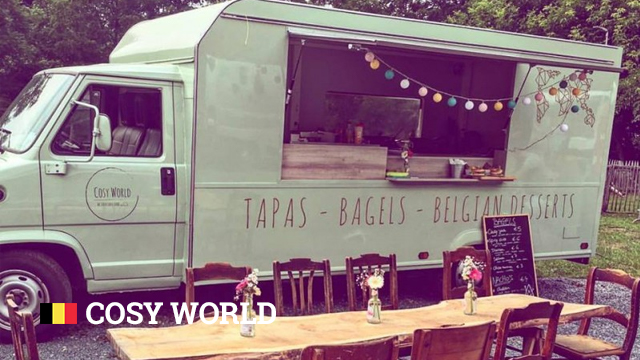
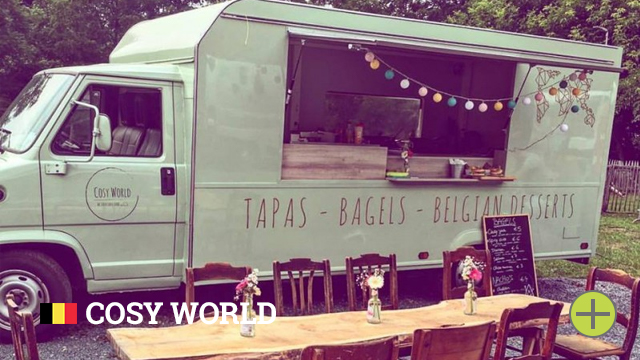
update

Changed region(s): [[0.875, 0.7944, 0.9688, 0.9472]]

diff --git a/pages/css/pages.css b/pages/css/pages.css
@@ -16,14 +16,17 @@ h1{
     color: white;
     padding: 10px 20px 15px 20px;
     text-decoration: underline;
+    text-align: center;
 }
 h2{
     background-color: #484848;
     color: white;
     padding: 5px 10px 5px 10px;
+    text-align: center;
 }
 .info{
     padding-left: 40px;
+
 }
 .infodt{
     font-weight: bold;
@@ -53,26 +56,164 @@ img {
     background-color: rgb(219, 139, 139);
     line-height: 24px;
 }
-.styleguide{
-    background-color: #EFEAEA;
+.styleguide-logo{
+    padding: 0px 40px 0px 40px;
 }
-.styleguide-body{
-
+.grootlogo{
+    width: 400px;
+    height: auto;
+    align-content: flex-start;
+}
+.kleinlogo{
+    width: 400px;
+    height: auto;  
+}
+.styleguidelogo{
     text-align: center;
+    align-content: center;
+}
+.styleguide-functies{
+    background-color: rgb(109, 105, 105);
+    color: white;
+    margin: 0px -50px 0px -50px;
+    padding: 20px 0px 20px 0px;
+    text-align: center;
+    align-content: center;
 }
 .DS1{
-    width: 500px;
-    height: auto;
-    padding-bottom: 20px;
-}
-
-.DS2{
     width: 469px;
     height: 264px;
     border: 3px solid #707070;
 }
-.DS2:hover {
+.DS1:hover {
     transform: scale(1.1, 1.1); 
     opacity: 1;
 }
-/* Voeg jouw css hieraan toe */
+.styleguide-icons{
+    margin: 0px -50px 0px -50px;
+    padding: 20px 0px 20px 0px;
+    text-align: center;
+    align-content: center;
+}
+.DS2{
+    width: auto;
+    height: 50px;
+}
+.DS3{
+    width: auto;
+    height: 50px;
+}
+.DS4{
+    width: auto;
+    height: 50px;
+}
+.DS5{
+    width: auto;
+    height: 50px;
+}
+.DS6{
+    width: auto;
+    height: 50px;
+}
+.orange-rectangle1{
+    display: table;
+    width: 250px;
+    height: auto;
+    padding-top: 5px;
+    padding-bottom: 5px;
+    background-color: #DCAA65; 
+    margin: 20px auto 0px auto;
+    border: 1px solid #707070;
+    border-radius: 20px;
+}
+.orange-rectangle1 span{
+    font-family: "Roboto Slab";
+    font-size: 35;
+    font-weight: bold;
+    color: white;
+}
+.orange-rectangle2{
+    display: table;
+    width: 250px;
+    height: auto;
+    padding-top: 5px;
+    padding-bottom: 5px;
+    background-color: #DCAA65; 
+    margin: 20px auto 0px auto;
+    border: 1px solid #707070;
+    border-radius: 20px;
+}
+.orange-rectangle2 span{
+    font-family: "Roboto Slab";
+    font-size: 35;
+    font-weight: bold;
+    color: white;
+}
+.orange-rectangle3{
+    display: table;
+    width: 30px;
+    height: 28px;
+    background-color: #DCAA65; 
+    margin: 20px auto 0px auto;
+    border: 1px solid #707070;
+    border-radius: 50%;
+}
+.orange-rectangle3 span{
+    font-family: "Roboto Slab";
+    font-size: 35px;
+    font-weight: bold;
+    color: white;
+}
+.styleguide-fonts{
+    text-align: center;
+    align-content: center;
+    padding: 20px 40px 20px 40px;
+    background-color: rgb(109, 105, 105);
+    color: white;
+    margin: 0px -50px 0px -50px;
+}
+.styleguide-fonts2{
+    display: inline-block;
+    text-align: left;
+}
+.header1{
+    font-family: "Springtime Sunshine";
+    font-size: 42px;
+}
+.header2{
+    font-family: "Roboto Slab";
+    font-size: 34px;
+    text-decoration: underline;
+    font-weight: bold;
+}
+.header3{
+    font-family: "Roboto Slab";
+    font-size: 27px; 
+}
+.header4{
+    font-family: "Roboto Slab";
+    font-size: 40px;
+    text-decoration: underline;
+}
+.header5{
+    font-family: "Roboto Slab";
+    font-size: 70px;
+    font-weight: bold; 
+}
+.header6{
+    font-family: "Arial";
+    font-size: 45px;
+}
+.header7{
+    font-family: "Arial";
+    font-size: 45px;
+    font-weight: bold;
+}
+.header8{
+    font-family: "Arial";
+    font-size: 27px;
+}
+.header9{
+    font-family: "Arial";
+    font-size: 15px;
+}

diff --git a/pages/styleguide.html b/pages/styleguide.html
@@ -9,11 +9,58 @@
     <link rel="stylesheet" href="css/pages.css">
 </head>
 <body>
-    <div class="styleguide-body">
         <h1>Digital Styleguide</h1>
-        <img src="images/logo.jpg" class="DS1"><br>
-        <img src="images/Cosy World finish.jpg" class="DS2">
 
-    </div>
+        <div class="styleguidelogo">
+            <h3>1. Gebruikte logo's</h3>
+            <img align="top" class="grootlogo" src="images/grootlogo.png">
+            <img class="kleinlogo" src="images/kleinlogo.png">
+        </div>
+
+        <div class="styleguide-functies">  
+            <h3>2. Speciale functies</h3>     
+            <img align="top" src="images/Cosy World finish.jpg" class="DS1"><br>
+        </div>
+
+        <div class="styleguide-icons">
+            <h3>3. Gebruikte iconen en knoppen</h3>
+            <p>Sociale media knoppen</p>
+            <img src="images/facebook.png" class="DS2">
+            <img src="images/snapchat.png" class="DS3">
+            <img src="images/insta.png" class="DS4">
+            <p>Extra info - minder info</p>
+            <img src="images/plus.png" class="DS5">
+            <img src="images/min.png" class="DS6">
+            <p>Routebeschrijving - Versturen - Bijlage toevoegen</p>
+            <div class="orange-rectangle1">
+                <span>Klik hier voor routebeschrijving</span>
+            </div>
+            <div class="orange-rectangle2">
+                <span>Versturen</span>
+            </div>
+            <div class="orange-rectangle3">
+                <Span>+</Span>
+            </div>
+        </div>
+
+        <div class="styleguide-fonts">
+            <h3>4. Gebruikte fonts</h3>
+            <div class="styleguide-fonts2">
+                <p class="header1">Header 1: Springtime Sunshine - 42pt</p>
+                <p class="header2">Navigatie 1 topbar: Roboto Slab - 34pt bold underlined</p>
+                <p class="header3">Navigatie 2 topbar: Roboto Slab - 27pt</p>
+                <p class="header4">Navigatie tussentitels: Roboto Slab - 40pt underlined</p>
+                <p class="header5">Tussentitel: Roboto slab - 70pt bold</p>
+                <p class="header6">Tekst bij locatie: Arial - 45pt</p>
+                <p class="header7">Bold tekst bij locatie: Arial - 45pt bold</p>
+                <p class="header8">Lopende tekst: Arial - 27pt</p>
+                <p class="header9">Opmerking openingsuren: Arial - 15pt</p>
+            </div>            
+        </div>
+
+        <div class="styleguide-icons">
+            <h3>5. Gebruikte kleuren</h3>
+        </div>
+
 </body>
 </html>
